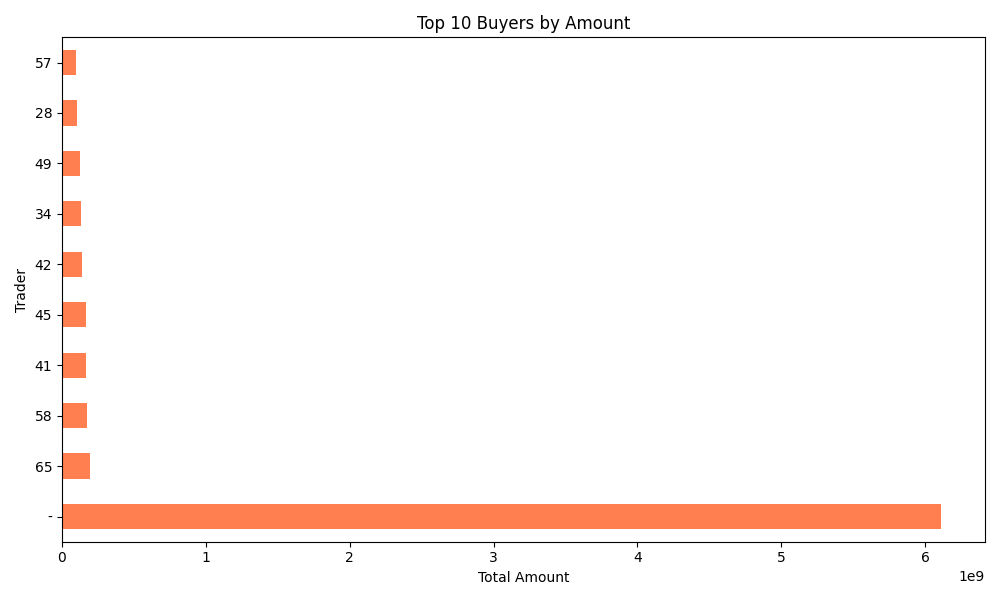
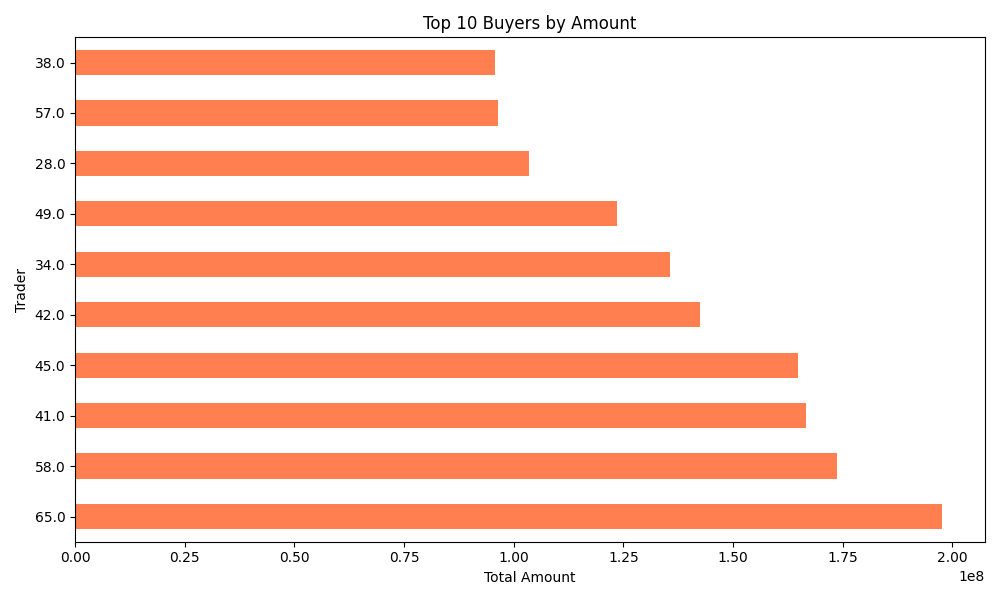
second commit

diff --git a/correlation_analysis.py b/correlation_analysis.py
@@ -2,7 +2,7 @@ import pandas as pd
 import matplotlib.pyplot as plt
 
 # 1. Load CSV
-df = pd.read_csv("floorsheet_floorsheetdata.csv")
+df = pd.read_csv("floorsheet_floorsheetdata_cleaned.csv")
 
 # 2. Convert numeric columns (remove commas, convert to float)
 numeric_cols = ["quantity", "amount", "rate", "transaction_no", "id"]

diff --git a/plotting.py b/plotting.py
@@ -5,7 +5,7 @@ import os
 
 # 1. Load CSV
 
-df = pd.read_csv("floorsheet_floorsheetdata.csv")
+df = pd.read_csv("floorsheet_floorsheetdata_cleaned.csv")
 
 # 2. Clean numeric columns
 numeric_cols = ["quantity", "amount", "rate"]

diff --git a/dashboard_visualreports.py b/dashboard_visualreports.py
@@ -7,7 +7,7 @@ import os
 
 # 1. Load CSV
 
-df = pd.read_csv("floorsheet_floorsheetdata.csv")
+df = pd.read_csv("floorsheet_floorsheetdata_cleaned.csv")
 
 
 # 2. Convert numeric columns
